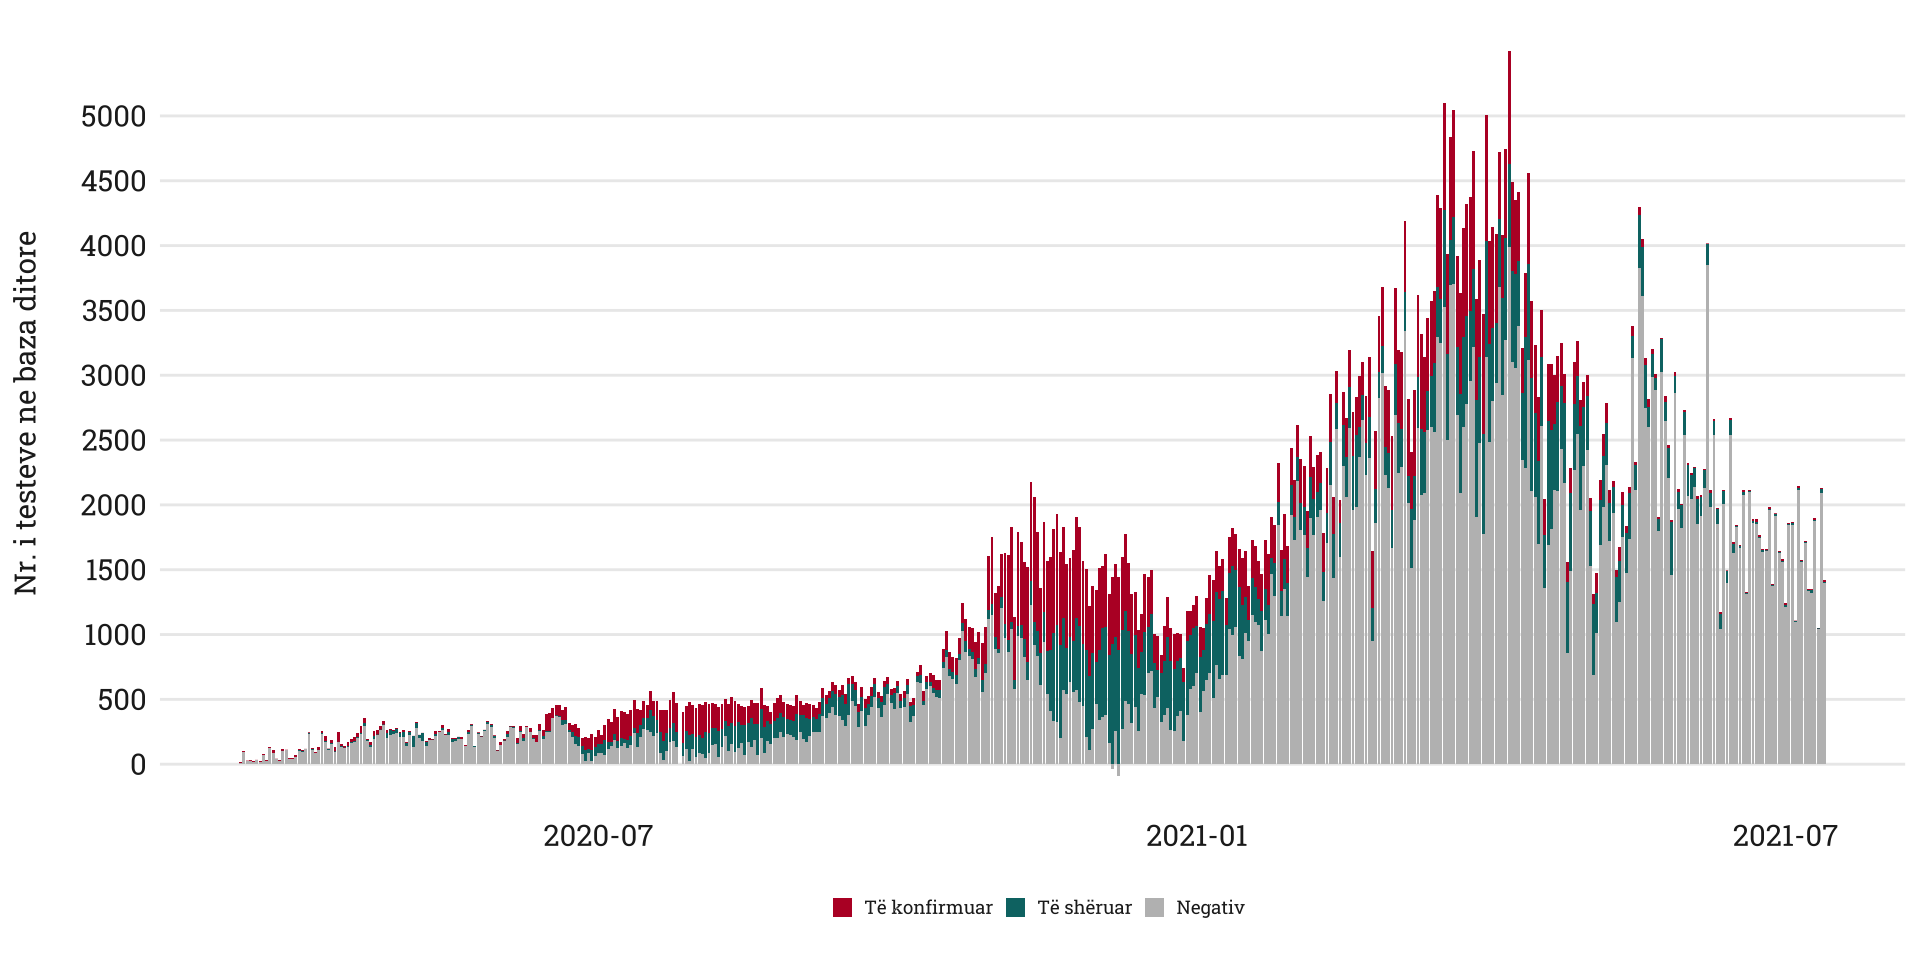
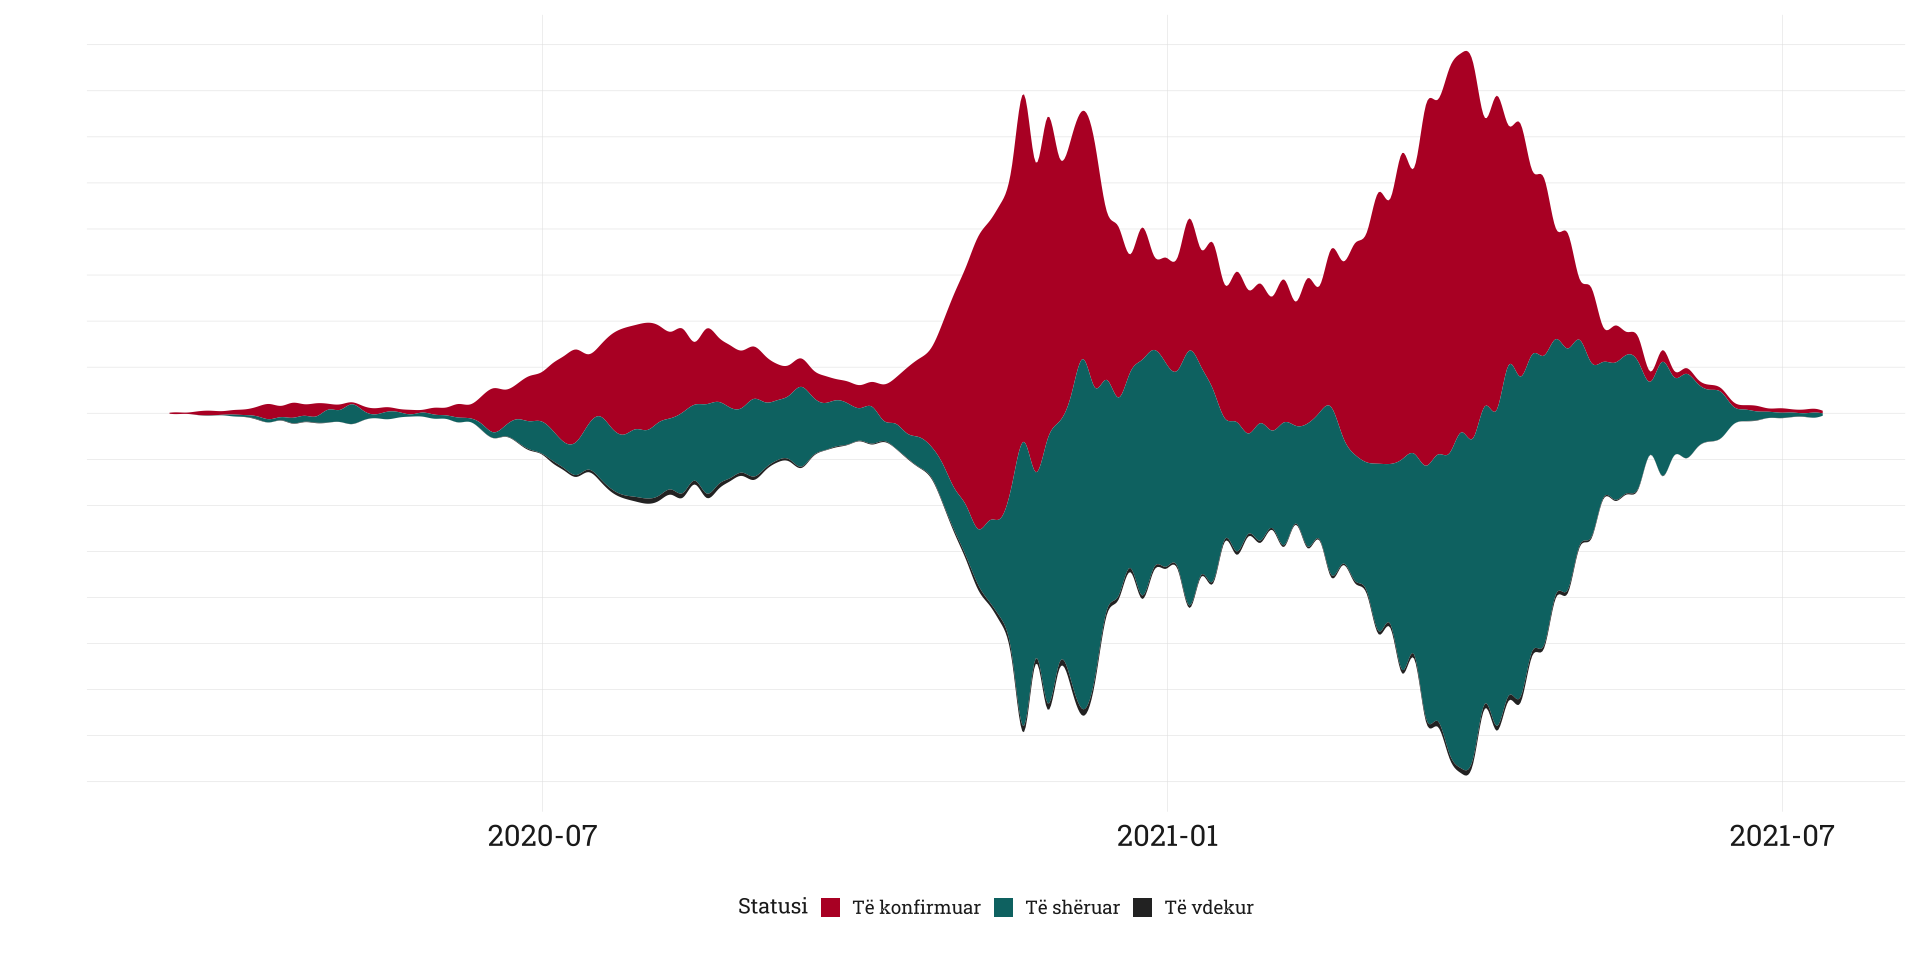
Update

diff --git a/stats.html b/stats.html
@@ -176,7 +176,7 @@ pre code {
 <a href="http://kosovo.today" target="blank" style="color: black;">© http://kosovo.today</a>. <a href="https://twitter.com/kushtrimvisoka" target="blank" style="color: black;">Author: Kushtrim Visoka</a>
 </div></h4>
 <h4 class="date"><div style="text-align: center; padding-bottom: 10px;">
-Përditësuar në 18:17, July 14, 2021
+Përditësuar në 01:16, July 15, 2021
 </div></h4>
 
 </div>
@@ -291,103 +291,9 @@ h1 { color: #111;
 </style>
 <p><br><br></p>
 <p><img src="stats_files/figure-html/unnamed-chunk-3-1.png" width="1000" /> <br><br></p>
-<!-- ## Rrjedha -->
-<!-- ```{r echo=FALSE, warning=FALSE, message= FALSE, fig.width= 10, fig.height = 5, lazy=TRUE} -->
-<!-- new <- data %>%  -->
-<!--   group_by(date) %>%  -->
-<!--   summarise(confirmed = sum(confirmed), healed = sum(healed), dead = sum(dead)) %>%  -->
-<!--   rename("Të konfirmuar" = confirmed, "Të shëruar" = healed, "Të vdekur" = dead) -->
-<!-- new <- melt(new,  -->
-<!--             id.vars= c("date"),  -->
-<!--             measure.vars= c("Të konfirmuar", "Të shëruar", "Të vdekur"), -->
-<!--             variable.name= "type", -->
-<!--             value.name=    "value" -->
-<!-- ) -->
-<!-- new$date <- as.Date(new$date, '%m/%d/%Y') -->
-<!-- new$value <- as.numeric(new$value) -->
-<!-- p <- ggplot(new, aes(x=date, y=value, group=type, fill = type)) + -->
-<!--   geom_stream(geom = "polygon", method = "density")+ -->
-<!--   scale_fill_manual(name = "Statusi", values = c("#B90B2E", "#047373", "#2D2D2D")) + -->
-<!--   scale_y_continuous(breaks = seq(-3000, 3000, 100)) + -->
-<!--   # geom_vline(xintercept = ymd("2020-04-15"), color = "black", linetype = "dashed", size = 0.5)+ -->
-<!--   # geom_vline(xintercept = ymd("2020-05-04"), color = "black", linetype = "dashed", size = 0.5)+ -->
-<!--   # geom_vline(xintercept = ymd("2020-05-18"), color = "black", linetype = "dashed", size = 0.5)+ -->
-<!--   # geom_vline(xintercept = ymd("2020-06-01"), color = "black", linetype = "dashed", size = 0.5)+ -->
-<!--   # geom_vline(xintercept = ymd("2020-06-22"), color = "black", linetype = "dashed", size = 0.5)+ -->
-<!--   #  -->
-<!--   # geom_curve(x = ymd("2020-04-15"), y = 40, xend = ymd("2020-04-10"), yend = 40, -->
-<!--   #            arrow = arrow(length = unit(0.07, "inch"), ends = "first"), -->
-<!--   #            size = 0.4, curvature = -0.3, color = "black") + -->
-<!--   # annotate(geom="text", ymd("2020-04-09"), y=40, label="Masat ndaluese\n të lëvizjes", -->
-<!--   #          color="black", hjust = 1, vjust = 0.5, vjust = 0, size = 3)+ -->
-<!--   #  -->
-<!--   # geom_curve(x = ymd("2020-05-04"), y = 70, xend = ymd("2020-04-28"), yend = 70, -->
-<!--   #            arrow = arrow(length = unit(0.07, "inch"), ends = "first"), -->
-<!--   #            size = 0.4, curvature = -0.3, color = "black") + -->
-<!--   # annotate(geom="text", ymd("2020-04-27"), y=70, label="Masat lehtësuese:\n Faza 1", -->
-<!--   #          color="black", hjust = 1, vjust = 0.5, vjust = 0, size = 3)+ -->
-<!--   #  -->
-<!--   # geom_curve(x = ymd("2020-05-18"), y = 45, xend = ymd("2020-05-15"), yend = 45, -->
-<!--   #            arrow = arrow(length = unit(0.07, "inch"), ends = "first"), -->
-<!--   #            size = 0.4, curvature = -0.3, color = "black") + -->
-<!--   # annotate(geom="text", ymd("2020-05-14"), y=45, label="Masat lehtësuese:\n Faza 2", -->
-<!--   #          color="black", hjust = 1, vjust = 0.5, vjust = 0, size = 3)+ -->
-<!--   #  -->
-<!--   # geom_curve(x = ymd("2020-06-01"), y = -35, xend = ymd("2020-05-29"), yend = -35, -->
-<!--   #            arrow = arrow(length = unit(0.07, "inch"), ends = "first"), -->
-<!--   #            size = 0.4, curvature = -0.3, color = "black") + -->
-<!--   # annotate(geom="text", ymd("2020-05-28"), y=-35, label="Masat lehtësuese:\n Faza 3", -->
-<!--   #          color="black", hjust = 1, vjust = 0.5, vjust = 0, size = 3)+ -->
-<!--   #  -->
-<!--   # geom_curve(x = ymd("2020-06-22"), y = -100, xend = ymd("2020-06-15"), yend = -100, -->
-<!--   #            arrow = arrow(length = unit(0.07, "inch"), ends = "first"), -->
-<!--   #            size = 0.4, curvature = -0.3, color = "black") + -->
-<!--   # annotate(geom="text", ymd("2020-06-14"), y=-100, label="MSH vështirëson\nkriteret e testimit", -->
-<!--   #          color="black", hjust = 1, vjust = 0.5, vjust = 0, size = 3)+ -->
-<!--   theme_rrjedha()+ -->
-<!--   xlab('') + -->
-<!--   ylab('')+ -->
-<!--   theme(plot.title = element_text( -->
-<!--     size = 14,  -->
-<!--     hjust = 0, -->
-<!--     family = myFont1, -->
-<!--     color = fontcolor),  -->
-<!--     legend.title = element_text( -->
-<!--       size = 8, -->
-<!--       color = fontcolor, -->
-<!--       family = myFont1, -->
-<!--       margin = margin(0, 0, 0.2, 0, 'cm')), -->
-<!--     plot.subtitle = element_text( -->
-<!--       size = 6,  -->
-<!--       hjust = 0,  -->
-<!--       color = fontcolor, -->
-<!--       family = myFont1, -->
-<!--       margin = margin( -->
-<!--         b = 0.5,  -->
-<!--         t = 0.2,  -->
-<!--         l = 2,  -->
-<!--         unit = "cm"),  -->
-<!--       debug = F), -->
-<!--     text = element_text(size = 12), -->
-<!--     axis.ticks = element_blank(),  -->
-<!--     # legend.direction = "vertical",  -->
-<!--     # legend.position = "right", -->
-<!--     # legend.box = "vertical", -->
-<!--     legend.direction = "horizontal",  -->
-<!--     legend.position = "bottom", -->
-<!--     legend.box = "horizontal", -->
-<!--     # plot.margin = margin(1, 1, 1, 1, 'cm'), -->
-<!--     legend.key.height = unit(0.3, "cm"),  -->
-<!--     legend.key.width = unit(0.3, "cm"), -->
-<!--     plot.caption = element_text(size = 5,  -->
-<!--                                 hjust = 0, -->
-<!--                                 margin = margin(t = 0.5,  -->
-<!--                                                 b = 0,  -->
-<!--                                                 unit = "cm"), family = myFont1,  -->
-<!--                                 color = "#222222") -->
-<!--   ) -->
-<!-- p -->
-<!-- ``` -->
+<div id="rrjedha" class="section level2">
+<h2>Rrjedha</h2>
+<p><img src="stats_files/figure-html/unnamed-chunk-4-1.png" width="960" /></p>
 <!-- ### Interaktive -->
 <!-- <br> -->
 <!-- Rrjedha e të konfirmuarëve për çdo komunë në baza ditore. -->
@@ -412,16 +318,17 @@ h1 { color: #111;
 <!-- pp  -->
 <!-- ``` -->
 <p><br><br></p>
+</div>
 <div id="nr-i-testeve" class="section level2">
 <h2>Nr i testeve</h2>
 <p><br></p>
-<p><img src="stats_files/figure-html/unnamed-chunk-4-1.png" width="960" /></p>
+<p><img src="stats_files/figure-html/unnamed-chunk-5-1.png" width="960" /></p>
 <p>Për krijimin e këtij grafikoni, është marrur parasyshë numri total i testimeve brenda ditës të raportuar nga IKSHPK, në kuadër të së cilave janë futur edhe rastet e deklaruara si të shëruar. Deri më tani nuk ka konfirmim nëse mostrat për të shëruarit janë mostra shtesë nga ato të cilat deklarohen në baza ditore.</p>
 <p><br><br></p>
 </div>
 <div id="rajoni" class="section level2">
 <h2>Rajoni</h2>
-<p><br> <img src="stats_files/figure-html/unnamed-chunk-5-1.png" width="1000" /></p>
+<p><br> <img src="stats_files/figure-html/unnamed-chunk-6-1.png" width="1000" /></p>
 <p><br><br></p>
 </div>
 <div id="burimi" class="section level2">
